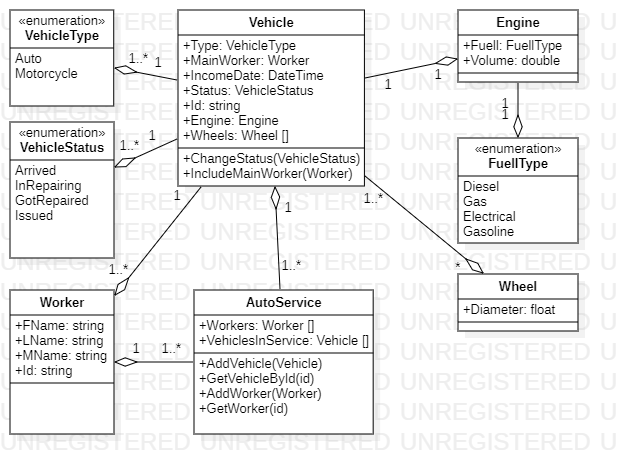
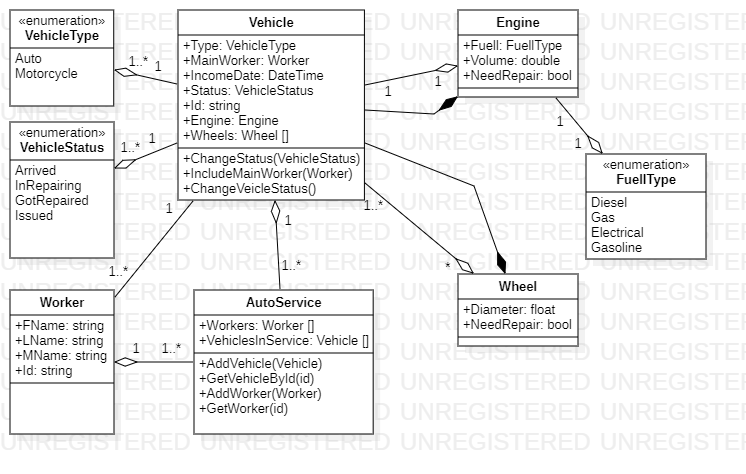
upd. with fixes)

diff --git a/ConsoleApp1/AutoService.cs b/ConsoleApp1/AutoService.cs
@@ -17,11 +17,11 @@ namespace ConsoleApp1
 
         public void AddVehicle(Vehicle vehicle) { throw new NotImplementedException(); }
 
-        public void GetVehicle(string id) { throw new NotImplementedException(); }
+        public Vehicle GetVehicle(string id) { throw new NotImplementedException(); }
 
         public void AddWorker(Worker worker) { throw new NotImplementedException(); }
 
-        public void GetWorker(string id) { throw new NotImplementedException(); }
+        public Worker GetWorker(string id) { throw new NotImplementedException(); }
 
         private AutoService() {}
 
